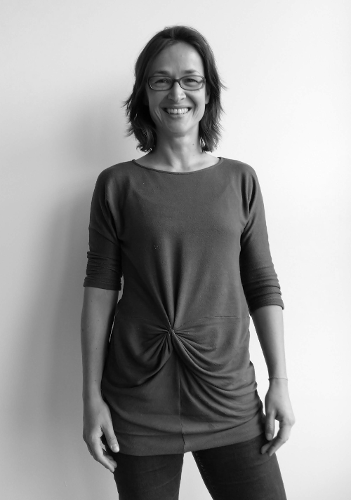
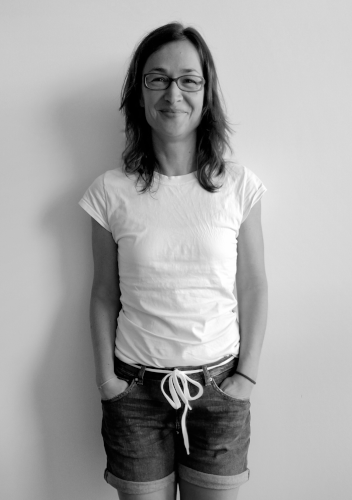
adding new pic for Marianne

diff --git a/theme/templates/base.html b/theme/templates/base.html
@@ -16,7 +16,7 @@
   <!-- <link rel="manifest" href="/manifest.json"> -->
   <meta name="theme-color" content="#000000">
 
-  <link rel="stylesheet" type="text/css" href="{{ SITEURL }}/{{ THEME_STATIC_DIR }}/css/style.css?version=9">
+  <link rel="stylesheet" type="text/css" href="{{ SITEURL }}/{{ THEME_STATIC_DIR }}/css/style.css?version=10">
   {% if page and page.url == "index.html" %}
   <style>aside img { display: unset; }</style>
   {% endif %}
